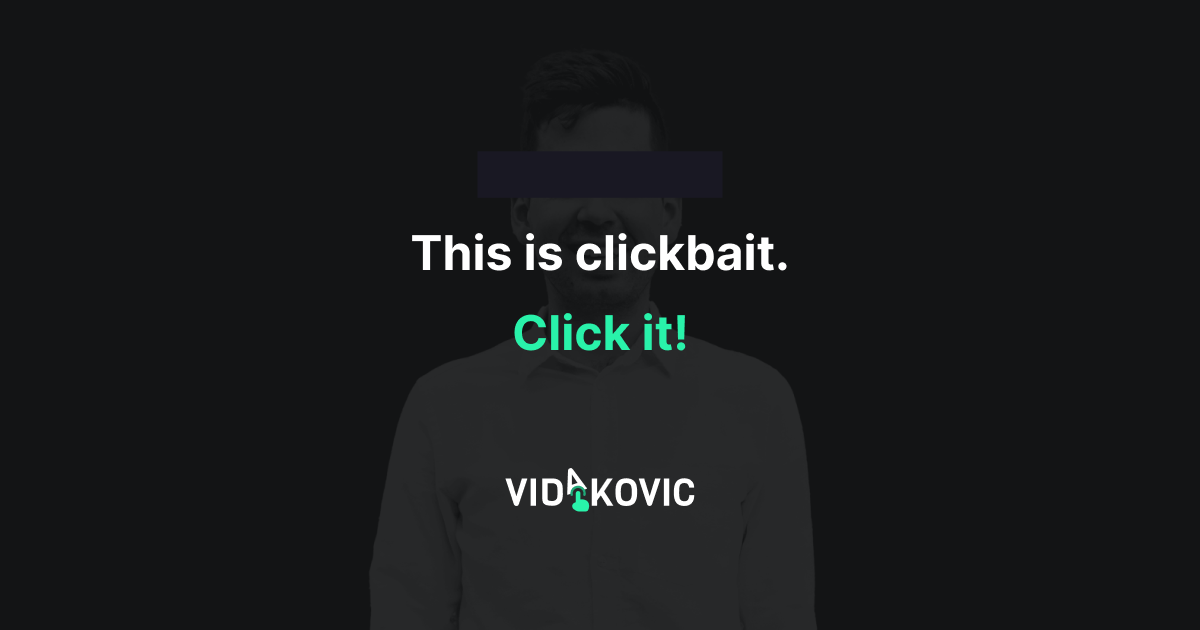
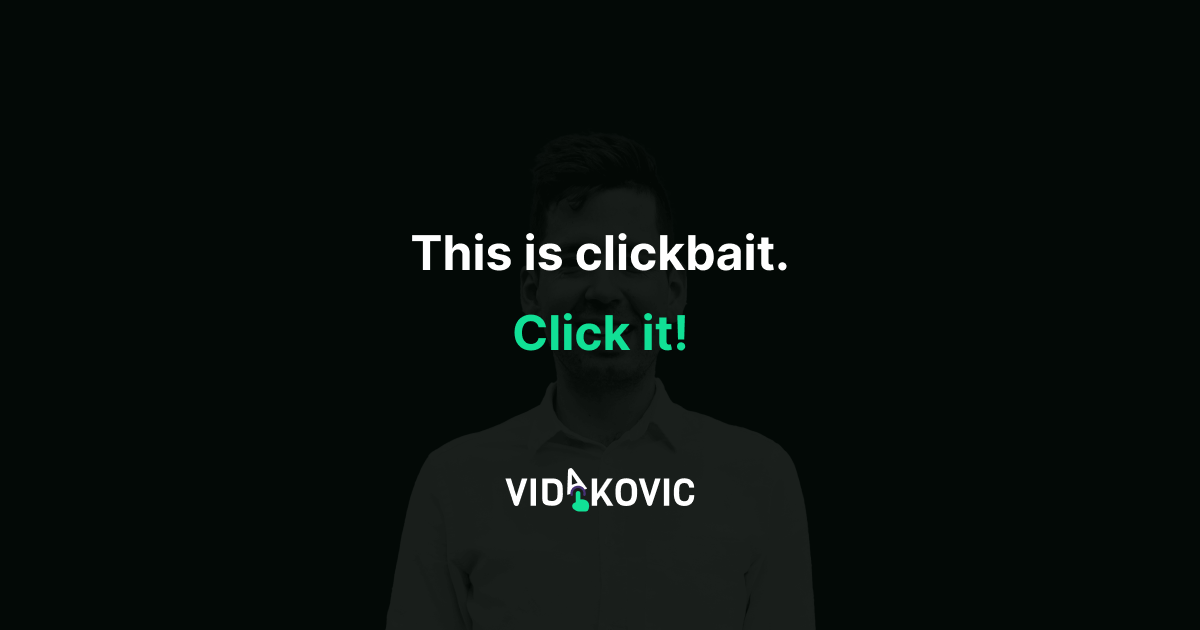
Possible fix to og image

diff --git a/next-app/src/app/opengraph-image.js b/next-app/src/app/opengraph-image.js
@@ -1,0 +1,24 @@
+import { ImageResponse } from 'next/server'
+import { OgImage } from 'shared/assets/images'
+ 
+export const runtime = 'edge'
+ 
+export const alt = 'Antonio Vidakovic'
+export const size = {
+  width: 1200,
+  height: 630,
+}
+ 
+export const contentType = 'image/png'
+ 
+// Image generation
+export default async function Image() {
+  return new ImageResponse(
+    (
+      <Image src={OgImage.src} alt="Antonio Vidakovic" width={OgImage.width} height={OgImage.height} />
+    ),
+    {
+      ...size,
+    }
+  )
+}

diff --git a/next-app/src/shared/assets/images/index.js b/next-app/src/shared/assets/images/index.js
@@ -5,3 +5,5 @@ export { default as AboutOne } from "@assets/images/about-1.png";
 export { default as AboutTwo } from "@assets/images/about-2.png";
 export { default as AboutThree } from "@assets/images/about-3.png";
 export { default as AboutFour } from "@assets/images/about-4.png";
+
+export { default as OgImage } from '@assets/images/opengraph-image.png';

diff --git a/next-app/src/app/page.js b/next-app/src/app/page.js
@@ -1,5 +1,4 @@
 import HomePage from "@modules/home";
-import { openGraph } from "shared/sharedMetadata";
 
 export const generateMetadata = () => {
   require("dotenv").config();
